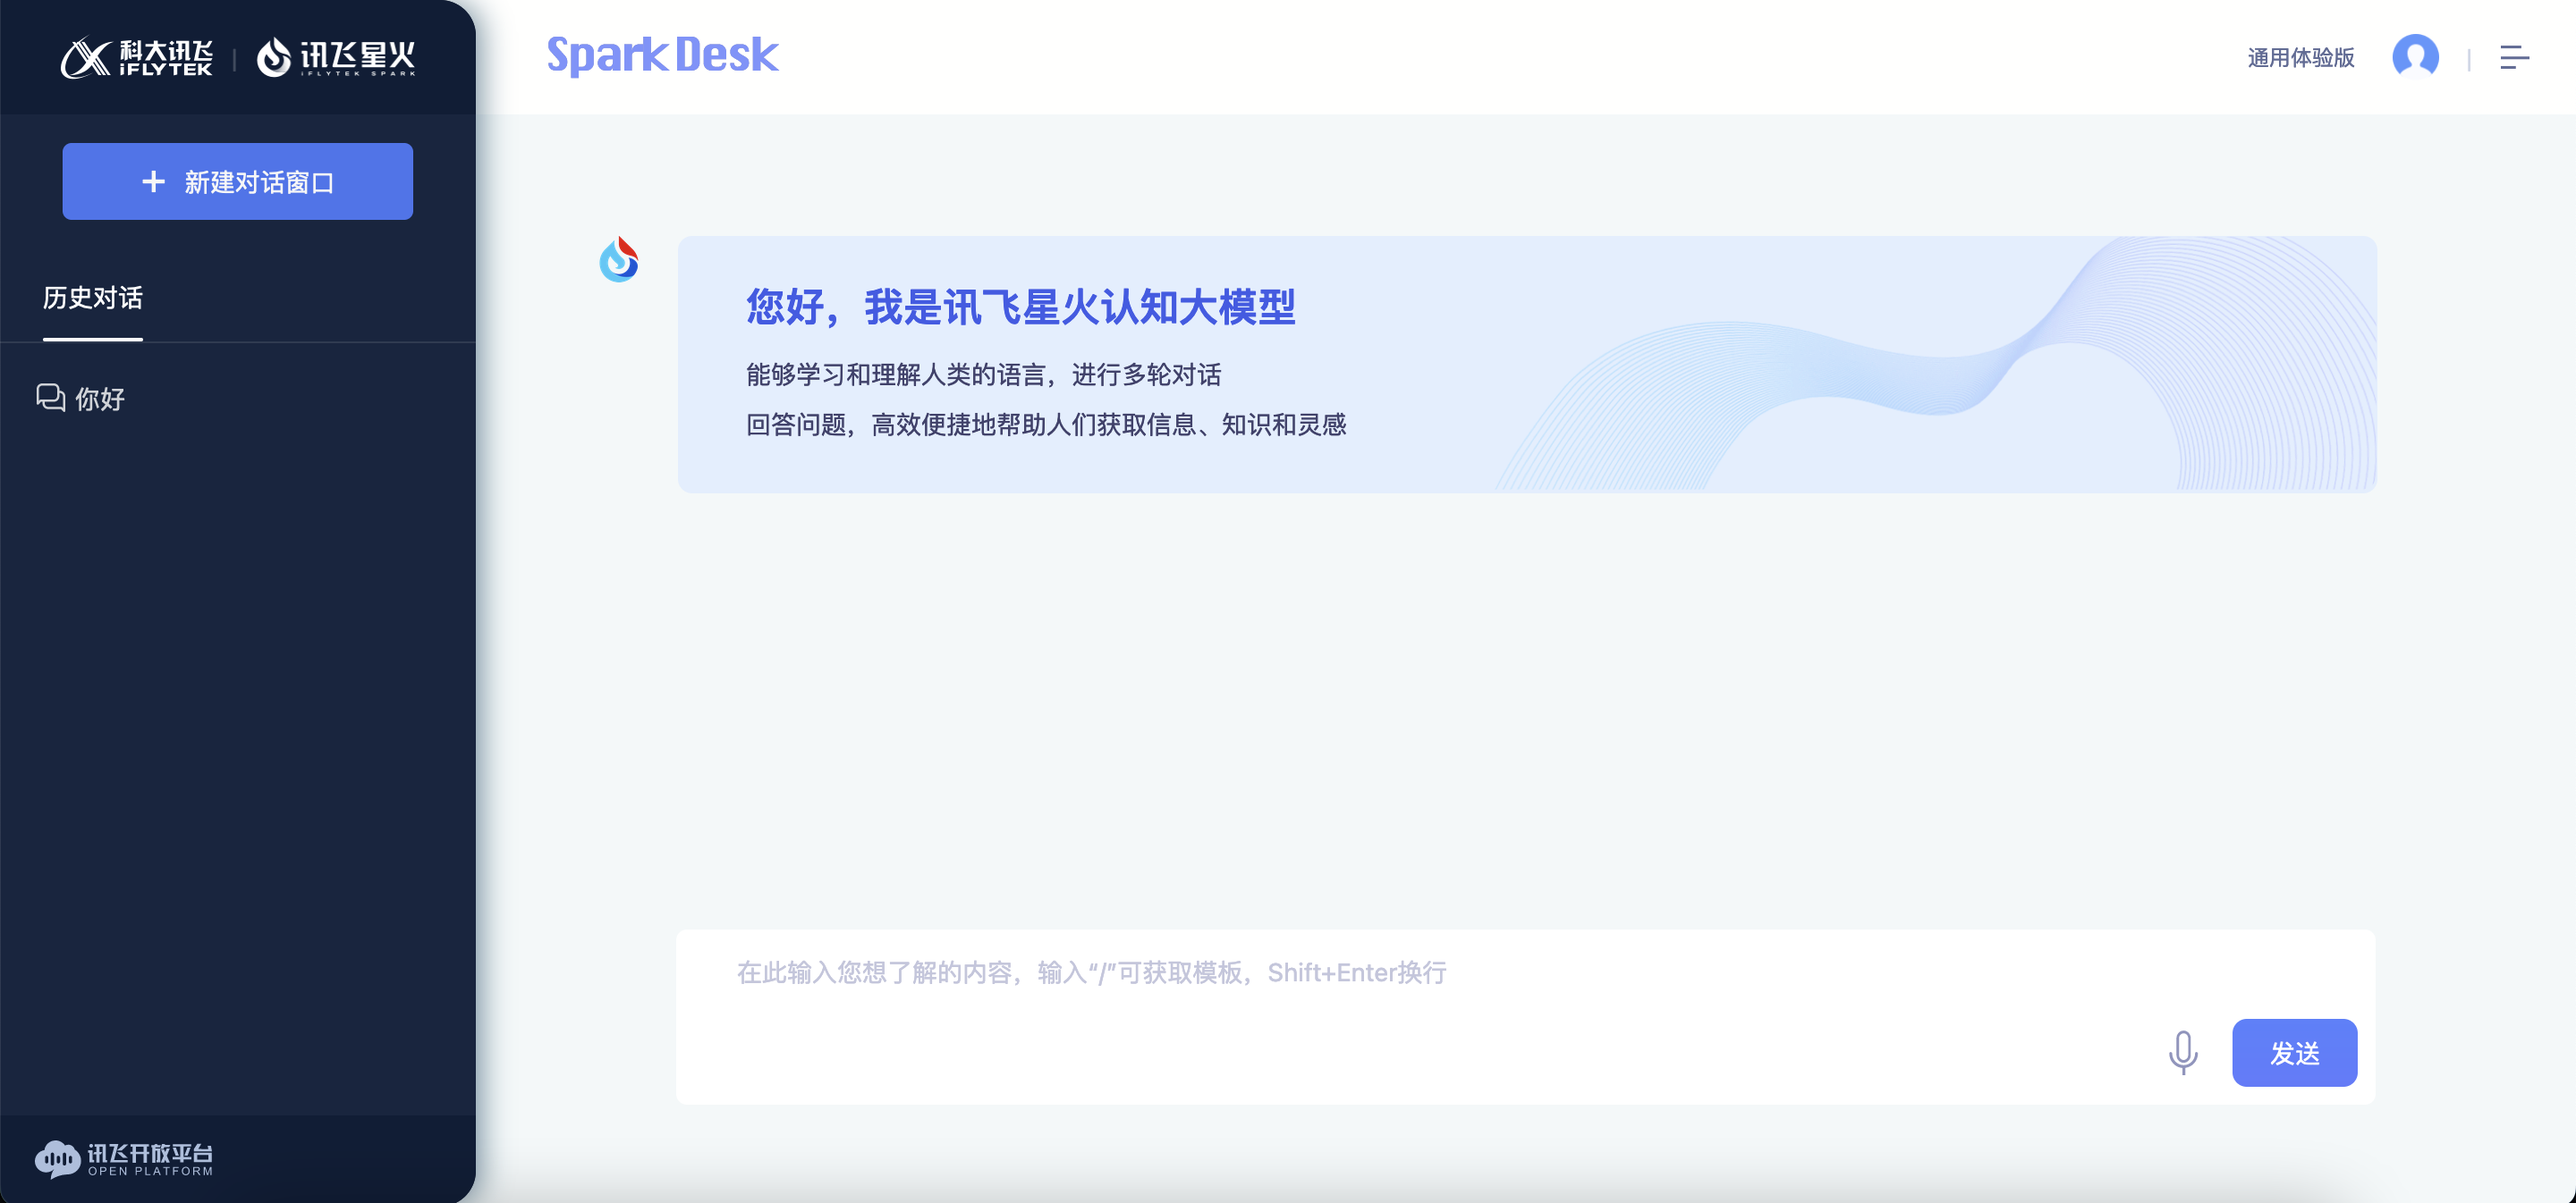
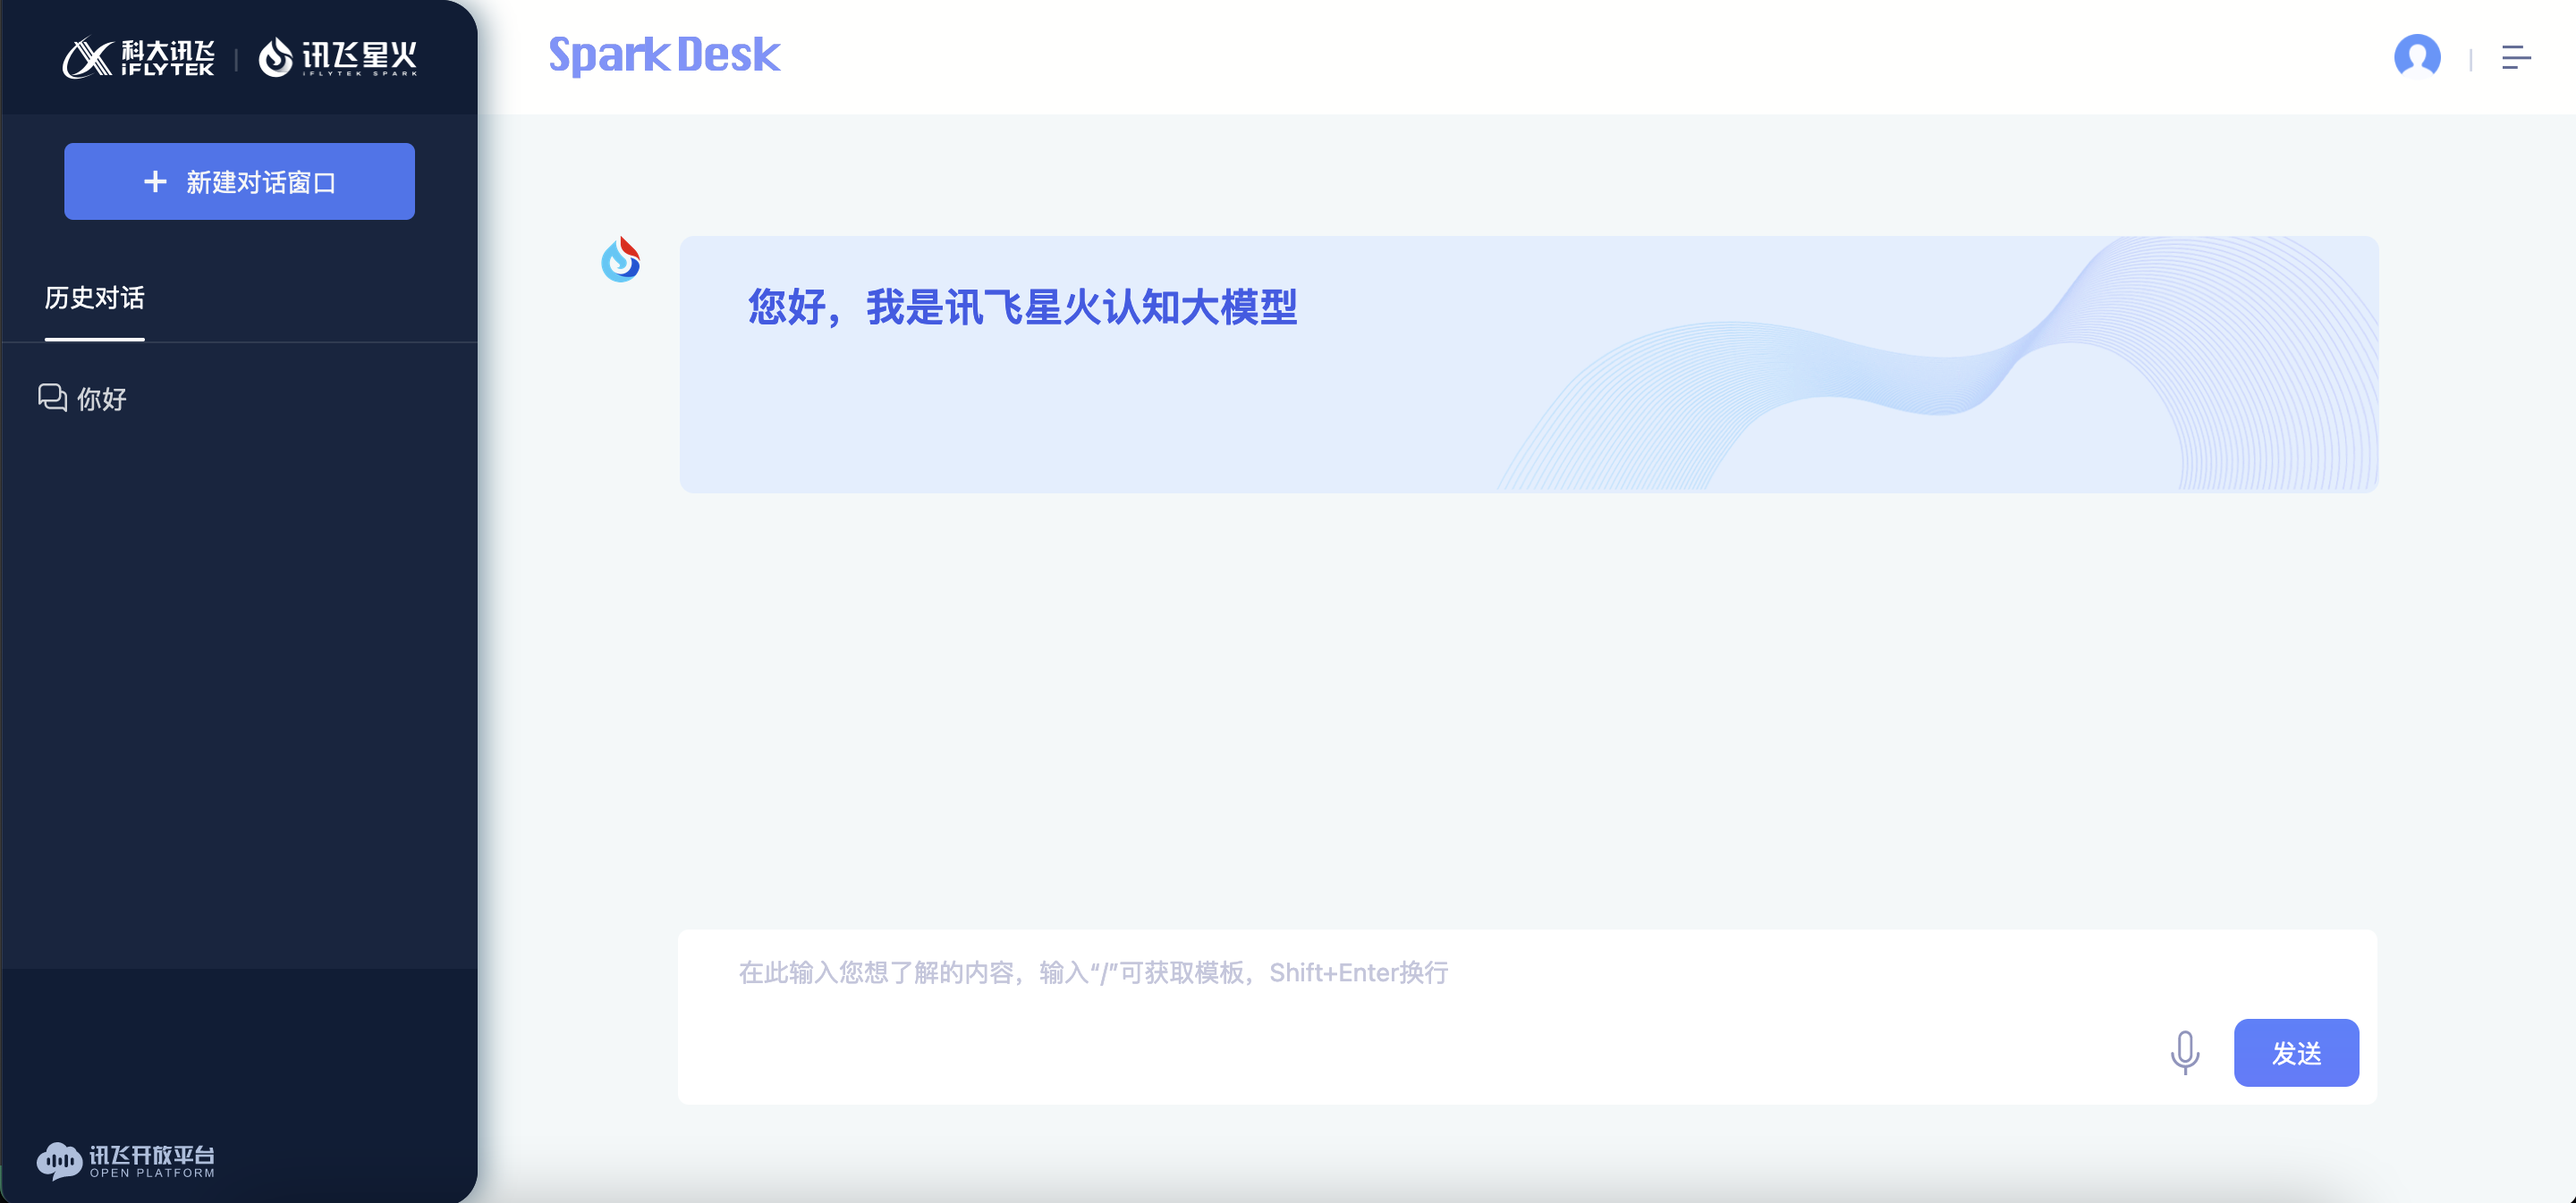
清理水印、顶部、直播回顾

diff --git a/KeepXFXingHuo.user.js b/KeepXFXingHuo.user.js
@@ -1,7 +1,7 @@
 // ==UserScript==
 // @name              KeepXFXingHuo
 // @description       这是一款体验优化插件，沉浸式体验科大讯飞的星火认知大模型。支持国产，感觉讯飞星火体验还不错，智商在线。
-// @version           1.2
+// @version           2.0
 // @author            xcanwin
 // @namespace         https://github.com/xcanwin/KeepXFXingHuo/
 // @supportURL        https://github.com/xcanwin/KeepXFXingHuo/
@@ -20,15 +20,19 @@
 
     window.onload = function() {
         setTimeout(function() {
-            $(".pages_switchTheme__2DNsU").lastElementChild.click();//切换沉浸主题
-            $(".pages_switchTheme__2DNsU").remove();//清理主题切换按钮
-            $(".pages_window_switch__J40yj").lastElementChild.click();//进入历史对话
-            $(".pages_window_switch__J40yj").firstElementChild.remove();//清理推荐对话
-            //清理水印//各位先留着吧，支持国产
-            //清理顶部//各位先留着吧，支持国产
-            $(".welcome-window_prompt_wrapper__nExUq").remove();//清理首页提示词指引
-            $(".affix_affix_content__-gEBT").parentElement.remove();//清理侧边栏
-            $(".chat-window_tip__-THKF").remove();//清理尾部
+            $(".pages_switchTheme__2DNsU").lastElementChild.click(); //切换沉浸主题
+            $(".pages_switchTheme__2DNsU").remove(); //清理主题切换按钮
+            $(".pages_window_switch__J40yj").lastElementChild.click(); //进入历史对话
+            $(".pages_window_switch__J40yj").firstElementChild.remove(); //清理推荐对话
+            $("#watermark-wrapper").remove(); //清理水印
+            $(".header_version_select__qCy40").remove(); //清理顶部
+            $(".welcome-window_prompt_wrapper__nExUq").remove(); //清理首页提示词指引
+            $(".affix_affix_content__-gEBT").parentElement.remove(); //清理侧边栏
+            $(".pages_live_enter__k6Noy").style.visibility = "hidden"; //清理直播回顾
+            $(".chat-window_tip__-THKF").remove(); //清理尾部
+            const welcomecontent = $$(".welcome-window_content_welcome_gpt__OPad5>p");
+            welcomecontent[1].style.visibility = "hidden"; //简洁欢迎用语
+            welcomecontent[2].style.visibility = "hidden"; //简洁欢迎用语
         }, 1500);
     };
 
